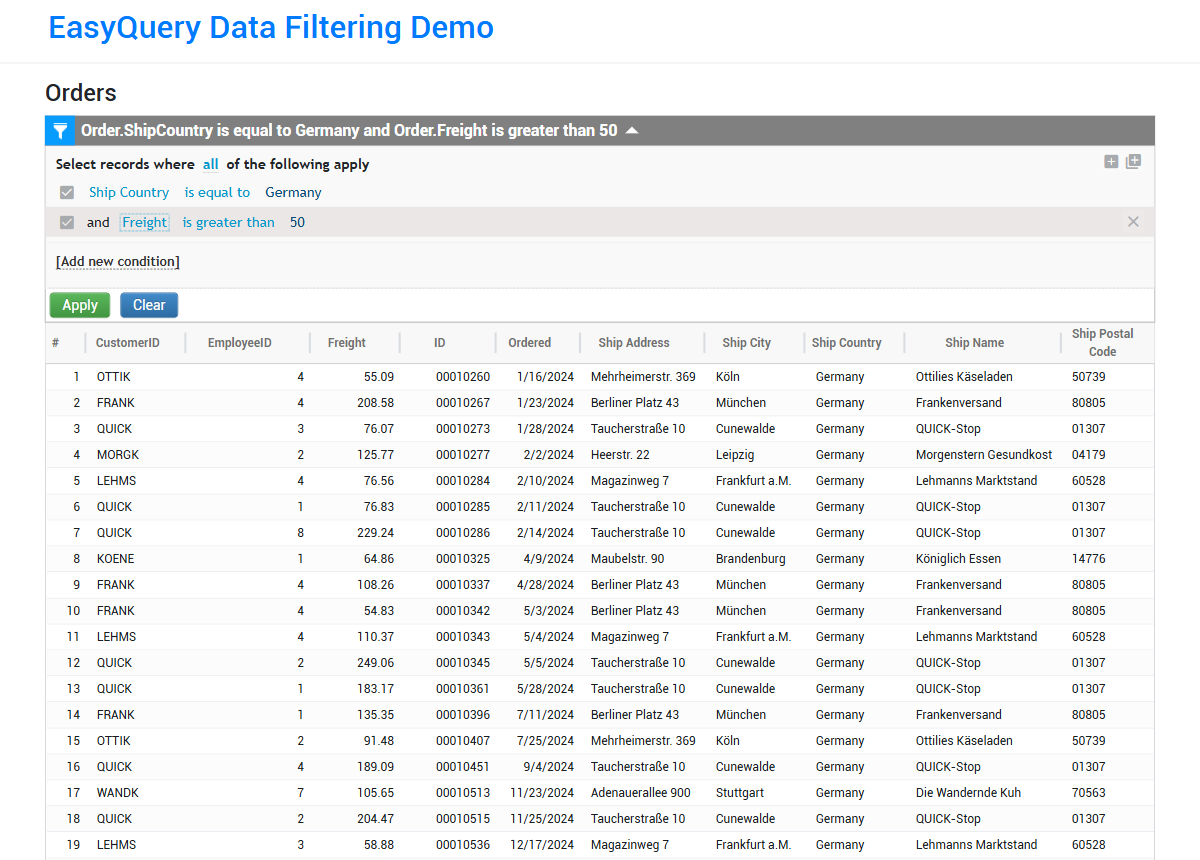
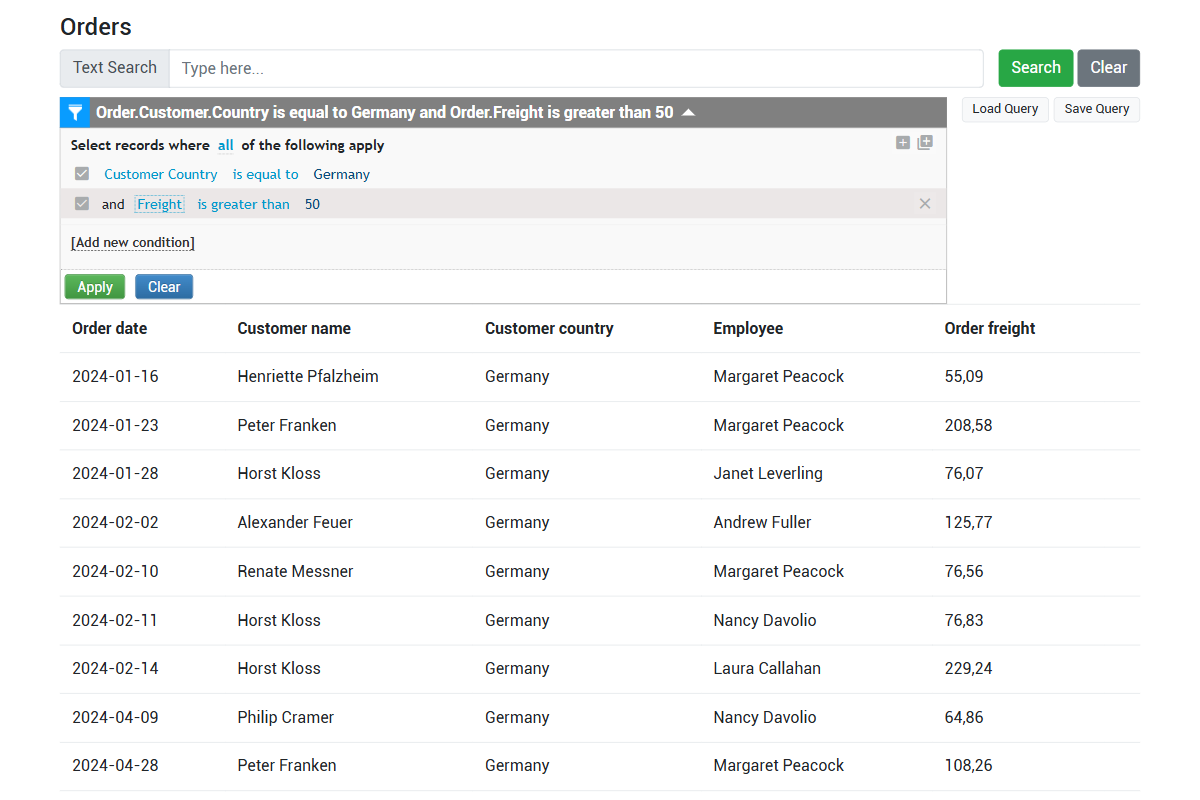
Give the scenario cards close-up crops and use Mvc.DataFiltering
A 1200px screenshot shrunk into a 245px card turns UI text to mush,
whatever its resolution. Cut a 700x486 close-up from each scenario
shot (the 245:170 card ratio) and use it on the home page and
/easyquery cards. The same close-ups replace the second copy of the
hero image lower on each scenario page, so no page shows one image
twice.

Take the data filtering shot from Mvc.DataFiltering instead of
Razor.DataFiltering: it has the text search beside the filter bar
and readable column captions (Customer name, Order freight) where
Razor.DataFiltering shows raw property names. The sample's template
navbar is cropped off.

Claude-Session: https://claude.ai/code/session_01SKU9iUfA3orhhgnd73DBWd

diff --git a/source/easyquery.html b/source/easyquery.html
@@ -49,7 +49,7 @@ title: EasyQuery — a visual query builder for your .NET app >> Korzh.com
         <div class="row">
             <div class="cell-sm-6 cell-lg-3 p-2">
                 <div class="eq-card">
-                    <a href="/easyquery/ad-hoc-reporting" class="eq-card__image"><img src="/assets/images/eq-ss-adhoc-reporting.webp" alt="Ad-hoc reporting with EasyQuery"></a>
+                    <a href="/easyquery/ad-hoc-reporting" class="eq-card__image"><img src="/assets/images/eq-card-adhoc-reporting.webp" alt="Ad-hoc reporting with EasyQuery"></a>
                     <div class="eq-card__body">
                         <h4 class="text-bold mt-0">Ad-hoc reporting</h4>
                         <div>"We need to change 3 reports and create 5 new." Let your users build, change and save their own reports, with charts and export.</div>
@@ -61,7 +61,7 @@ title: EasyQuery — a visual query builder for your .NET app >> Korzh.com
             </div>
             <div class="cell-sm-6 cell-lg-3 p-2">
                 <div class="eq-card">
-                    <a href="/easyquery/advanced-search" class="eq-card__image"><img src="/assets/images/eq-ss-advanced-search.webp" alt="Advanced search with EasyQuery"></a>
+                    <a href="/easyquery/advanced-search" class="eq-card__image"><img src="/assets/images/eq-card-advanced-search.webp" alt="Advanced search with EasyQuery"></a>
                     <div class="eq-card__body">
                         <h4 class="text-bold mt-0">Advanced search</h4>
                         <div>Replace a screen full of search fields with one query builder that covers any combination of conditions.</div>
@@ -73,7 +73,7 @@ title: EasyQuery — a visual query builder for your .NET app >> Korzh.com
             </div>
             <div class="cell-sm-6 cell-lg-3 p-2">
                 <div class="eq-card">
-                    <a href="/easyquery/data-filtering" class="eq-card__image"><img src="/assets/images/eq-ss-data-filtering.webp" alt="Data filtering with EasyQuery"></a>
+                    <a href="/easyquery/data-filtering" class="eq-card__image"><img src="/assets/images/eq-card-data-filtering.webp" alt="Data filtering with EasyQuery"></a>
                     <div class="eq-card__body">
                         <h4 class="text-bold mt-0">Data filtering</h4>
                         <div>Put a filter bar over any list or grid, and let users filter it the way they need, not the way you guessed.</div>
@@ -85,7 +85,7 @@ title: EasyQuery — a visual query builder for your .NET app >> Korzh.com
             </div>
             <div class="cell-sm-6 cell-lg-3 p-2">
                 <div class="eq-card">
-                    <a href="/easyquery/spa" class="eq-card__image"><img src="/assets/images/eq-ss-spa-angular.webp" alt="EasyQuery in an Angular app: reports with grouping and totals"></a>
+                    <a href="/easyquery/spa" class="eq-card__image"><img src="/assets/images/eq-card-spa.webp" alt="EasyQuery in an Angular app: reports with grouping and totals"></a>
                     <div class="eq-card__body">
                         <h4 class="text-bold mt-0">For SPAs</h4>
                         <div>A query builder for your React, Angular, Vue or Blazor app, with the ASP.NET Core backend or EasyQuery Server.</div>

diff --git a/source/index.html b/source/index.html
@@ -66,25 +66,25 @@ canonical_url: 'https://korzh.com'
                     <div class="row">
                         <div class="cell-6 p-2">
                             <a href="/easyquery/ad-hoc-reporting" class="eq-card">
-                                <span class="eq-card__image"><img src="/assets/images/eq-ss-adhoc-reporting.webp" alt="Ad-hoc reporting"></span>
+                                <span class="eq-card__image"><img src="/assets/images/eq-card-adhoc-reporting.webp" alt="Ad-hoc reporting"></span>
                                 <span class="eq-card__body text-bold">Ad-hoc reporting</span>
                             </a>
                         </div>
                         <div class="cell-6 p-2">
                             <a href="/easyquery/advanced-search" class="eq-card">
-                                <span class="eq-card__image"><img src="/assets/images/eq-ss-advanced-search.webp" alt="Advanced search"></span>
+                                <span class="eq-card__image"><img src="/assets/images/eq-card-advanced-search.webp" alt="Advanced search"></span>
                                 <span class="eq-card__body text-bold">Advanced search</span>
                             </a>
                         </div>
                         <div class="cell-6 p-2">
                             <a href="/easyquery/data-filtering" class="eq-card">
-                                <span class="eq-card__image"><img src="/assets/images/eq-ss-data-filtering.webp" alt="Data filtering"></span>
+                                <span class="eq-card__image"><img src="/assets/images/eq-card-data-filtering.webp" alt="Data filtering"></span>
                                 <span class="eq-card__body text-bold">Data filtering</span>
                             </a>
                         </div>
                         <div class="cell-6 p-2">
                             <a href="/easyquery/spa" class="eq-card">
-                                <span class="eq-card__image"><img src="/assets/images/eq-ss-spa-angular.webp" alt="EasyQuery in an Angular app: reports with grouping and totals"></span>
+                                <span class="eq-card__image"><img src="/assets/images/eq-card-spa.webp" alt="EasyQuery in an Angular app: reports with grouping and totals"></span>
                                 <span class="eq-card__body text-bold">For SPAs</span>
                             </a>
                         </div>

diff --git a/source/easyquery/ad-hoc-reporting.html b/source/easyquery/ad-hoc-reporting.html
@@ -48,7 +48,7 @@ title: Ad-hoc reporting for your .NET app — EasyQuery >> Korzh.com
     <div class="container pt-10 pb-10">
         <div class="row">
             <div class="cell-lg-6 p-2">
-                <a href="https://demo.korzh.com/adhoc-reporting"><img src="/assets/images/eq-ss-adhoc-reporting.webp" alt="The ad-hoc reporting demo" class="eq-shot"></a>
+                <a href="https://demo.korzh.com/adhoc-reporting"><img src="/assets/images/eq-card-adhoc-reporting.webp" alt="The ad-hoc reporting demo" class="eq-shot"></a>
             </div>
             <div class="cell-lg-6 p-2 d-flex flex-column flex-justify-center">
                 <h2 class="text-bold mt-0">WHAT YOUR USERS <span>GET</span></h2>

diff --git a/source/easyquery/advanced-search.html b/source/easyquery/advanced-search.html
@@ -49,7 +49,7 @@ title: Advanced search for your .NET app — EasyQuery >> Korzh.com
     <div class="container pt-10 pb-10">
         <div class="row">
             <div class="cell-lg-6 p-2">
-                <a href="https://demo.korzh.com/advanced-search"><img src="/assets/images/eq-ss-advanced-search.webp" alt="The advanced search demo" class="eq-shot"></a>
+                <a href="https://demo.korzh.com/advanced-search"><img src="/assets/images/eq-card-advanced-search.webp" alt="The advanced search demo" class="eq-shot"></a>
             </div>
             <div class="cell-lg-6 p-2 d-flex flex-column flex-justify-center">
                 <h2 class="text-bold mt-0">WHAT YOUR USERS <span>GET</span></h2>

diff --git a/source/easyquery/data-filtering.html b/source/easyquery/data-filtering.html
@@ -48,7 +48,7 @@ title: Data filtering for your .NET app — EasyQuery >> Korzh.com
     <div class="container pt-10 pb-10">
         <div class="row">
             <div class="cell-lg-6 p-2">
-                <a href="https://demo.korzh.com/data-filtering"><img src="/assets/images/eq-ss-data-filtering.webp" alt="The data filtering demo" class="eq-shot"></a>
+                <a href="https://demo.korzh.com/data-filtering"><img src="/assets/images/eq-card-data-filtering.webp" alt="The data filtering demo" class="eq-shot"></a>
             </div>
             <div class="cell-lg-6 p-2 d-flex flex-column flex-justify-center">
                 <h2 class="text-bold mt-0">WHAT YOUR USERS <span>GET</span></h2>
